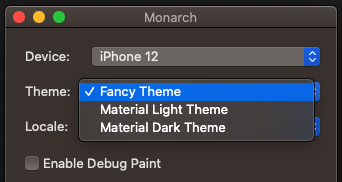
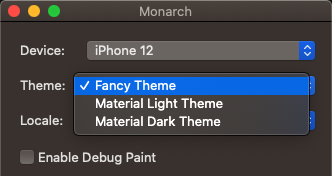
update docs screenshots, styling, removed $ from code samples to improve Copy to clipboardfunctionality

Changed region(s): [[0.0, 0.0, 1.0, 1.0], [0.0602, 0.8523, 0.4819, 0.9375], [0.0602, 0.2557, 0.2108, 0.3409]]

diff --git a/src/css/custom.css b/src/css/custom.css
@@ -111,14 +111,12 @@
   padding: 0 var(--ifm-pre-padding);
 }
 
-.dartCode .prism-code {
-  font-size: 90%;
-}
-
-.cliLog .prism-code {
-  font-size: 80%;
-}
-
 [class^="docMainContainer"] .prism-code {
-  font-size: 90%;
+  font-size: 0.9rem;
+}
+
+.docs-app-screenshot {
+  border-radius: 5px;
+  object-fit: cover;
+  box-shadow: rgba(0, 0, 0, 0.25) 0px 14px 28px, rgba(0, 0, 0, 0.22) 0px 10px 10px;
 }

diff --git a/docs/troubleshooting.md b/docs/troubleshooting.md
@@ -12,7 +12,7 @@ To get more detail information about your issue, you could run monarch in
 verbose mode:
 
 ```shell
-$ monarch run -v
+monarch run -v
 ```
 
 Also, if you are running Monarch on Windows, you may experience some 

diff --git a/docs/upgrading.md b/docs/upgrading.md
@@ -6,5 +6,5 @@ description: Monarch is a tool for developing Flutter widgets in isolation. It m
 
 To upgrade to the latest version of Monarch just run this command:
 ```shell
-$ monarch upgrade
+monarch upgrade
 ```
